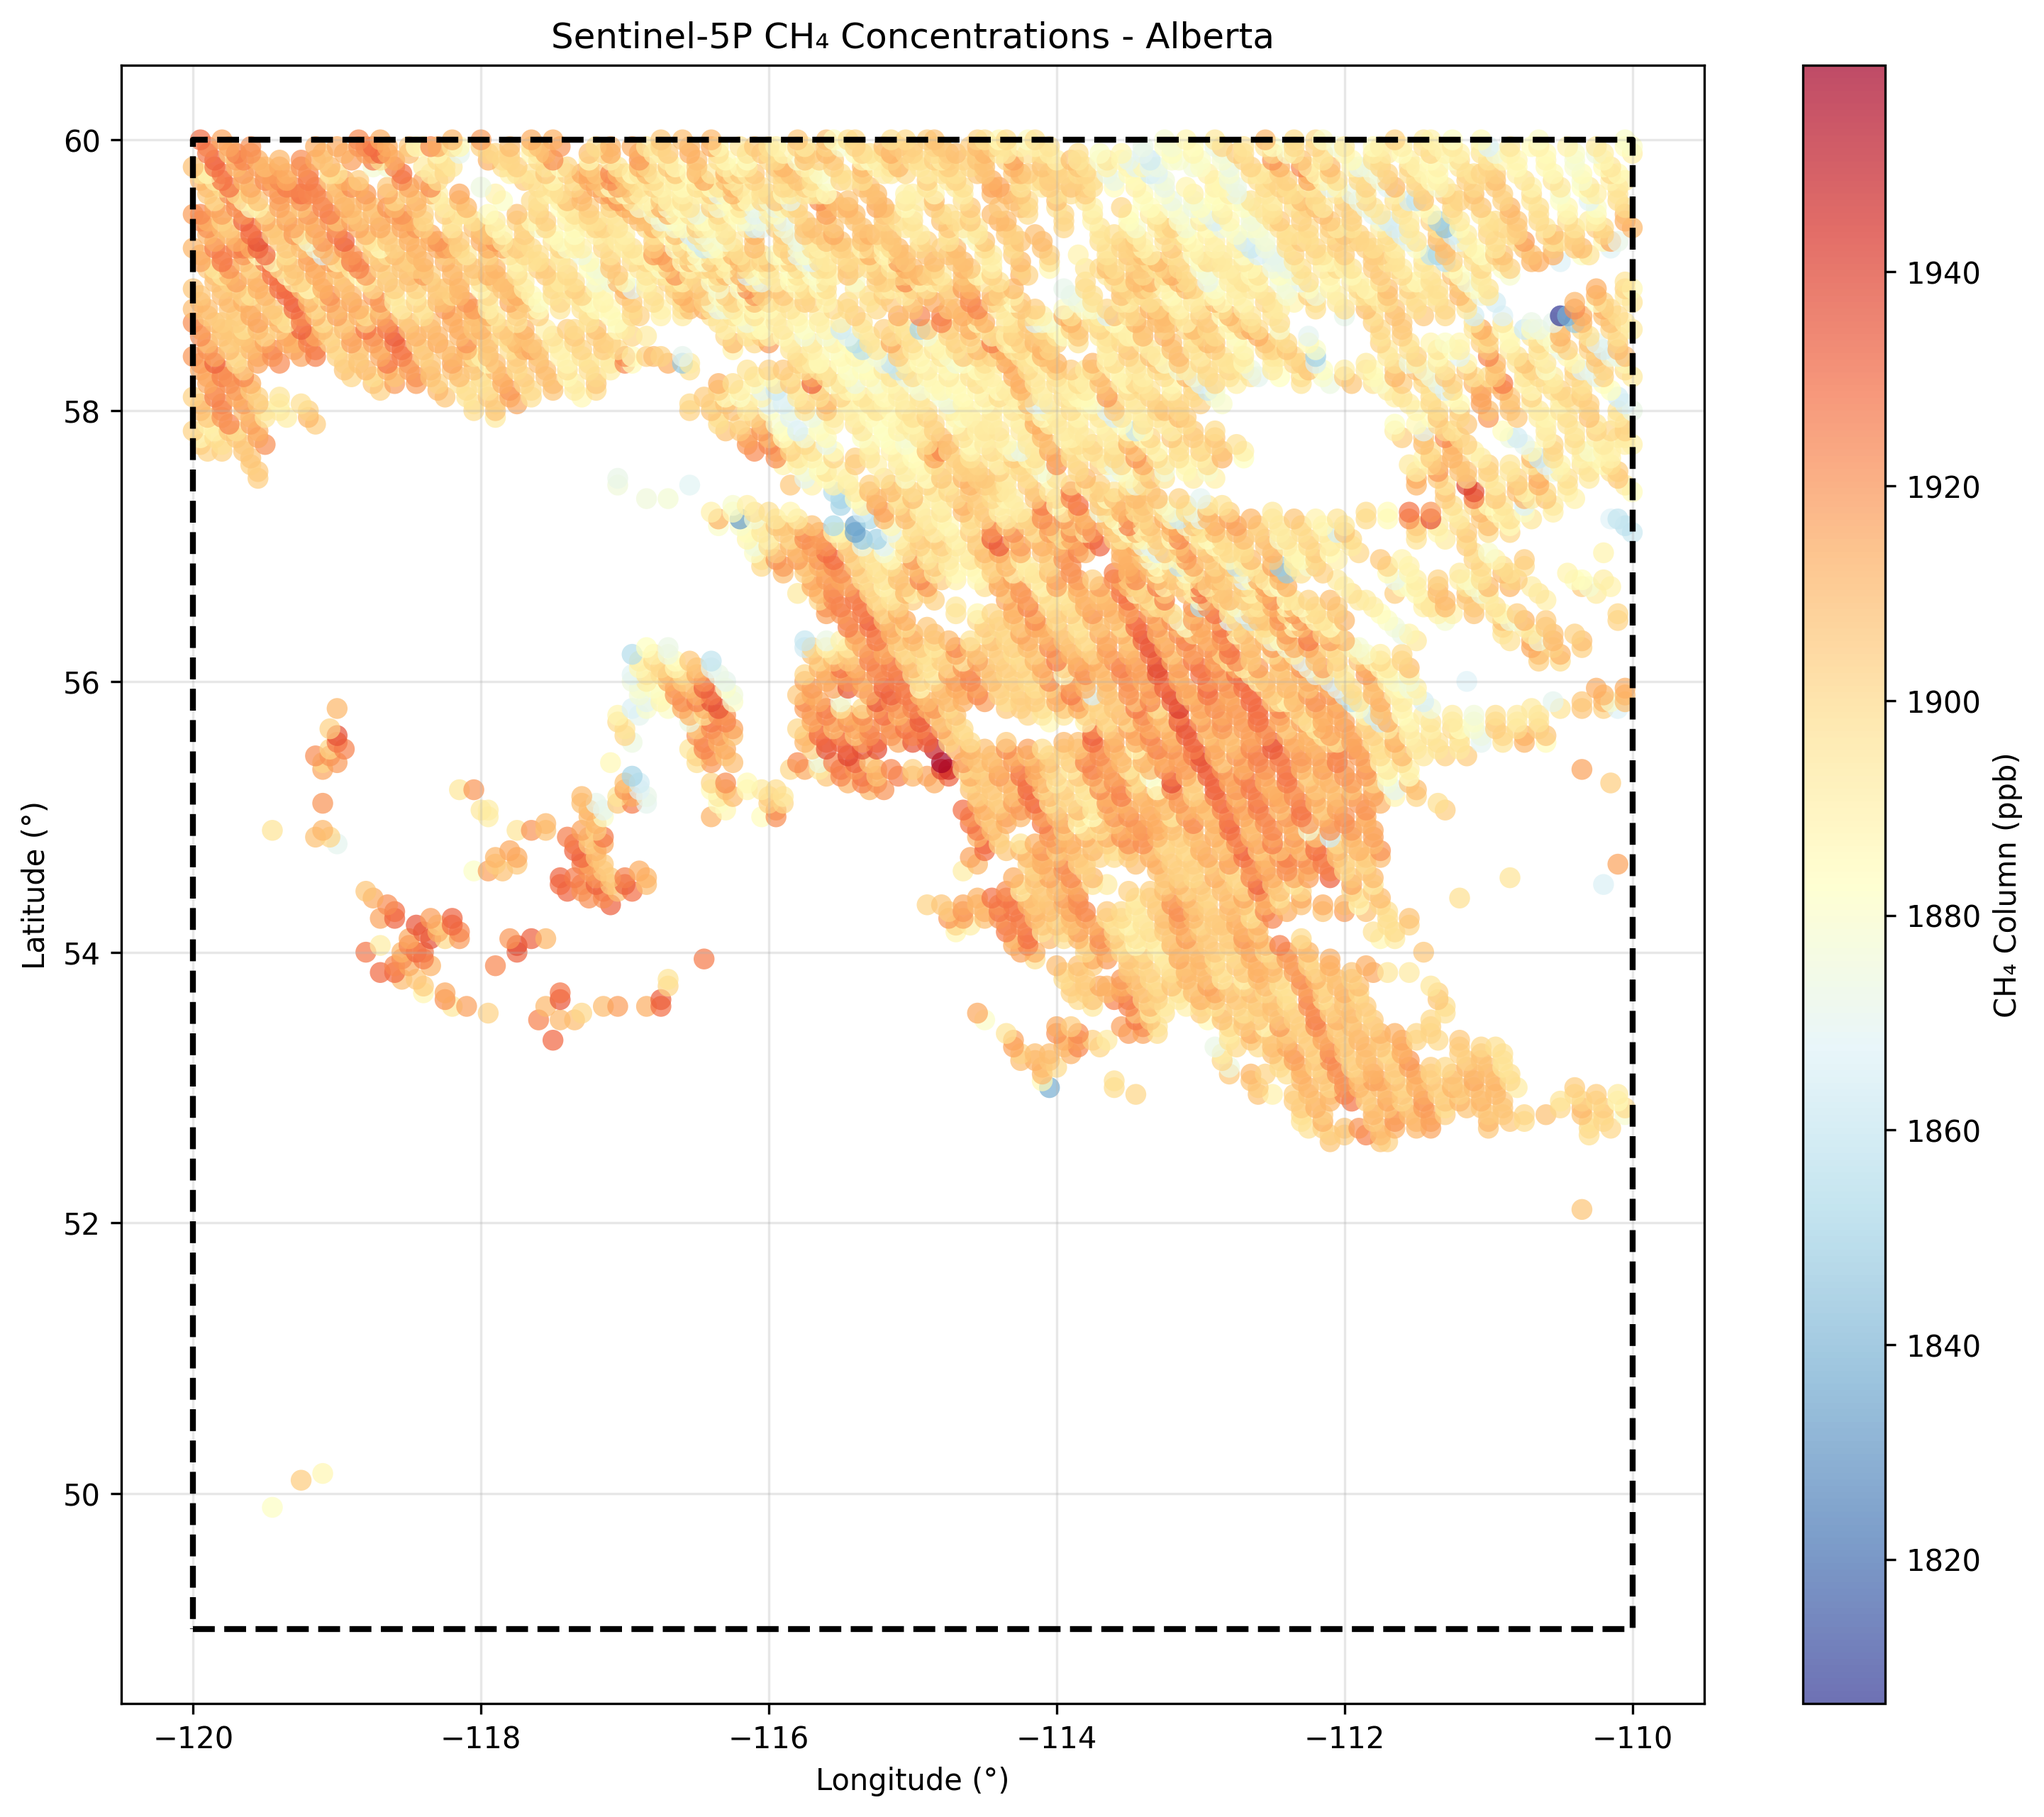
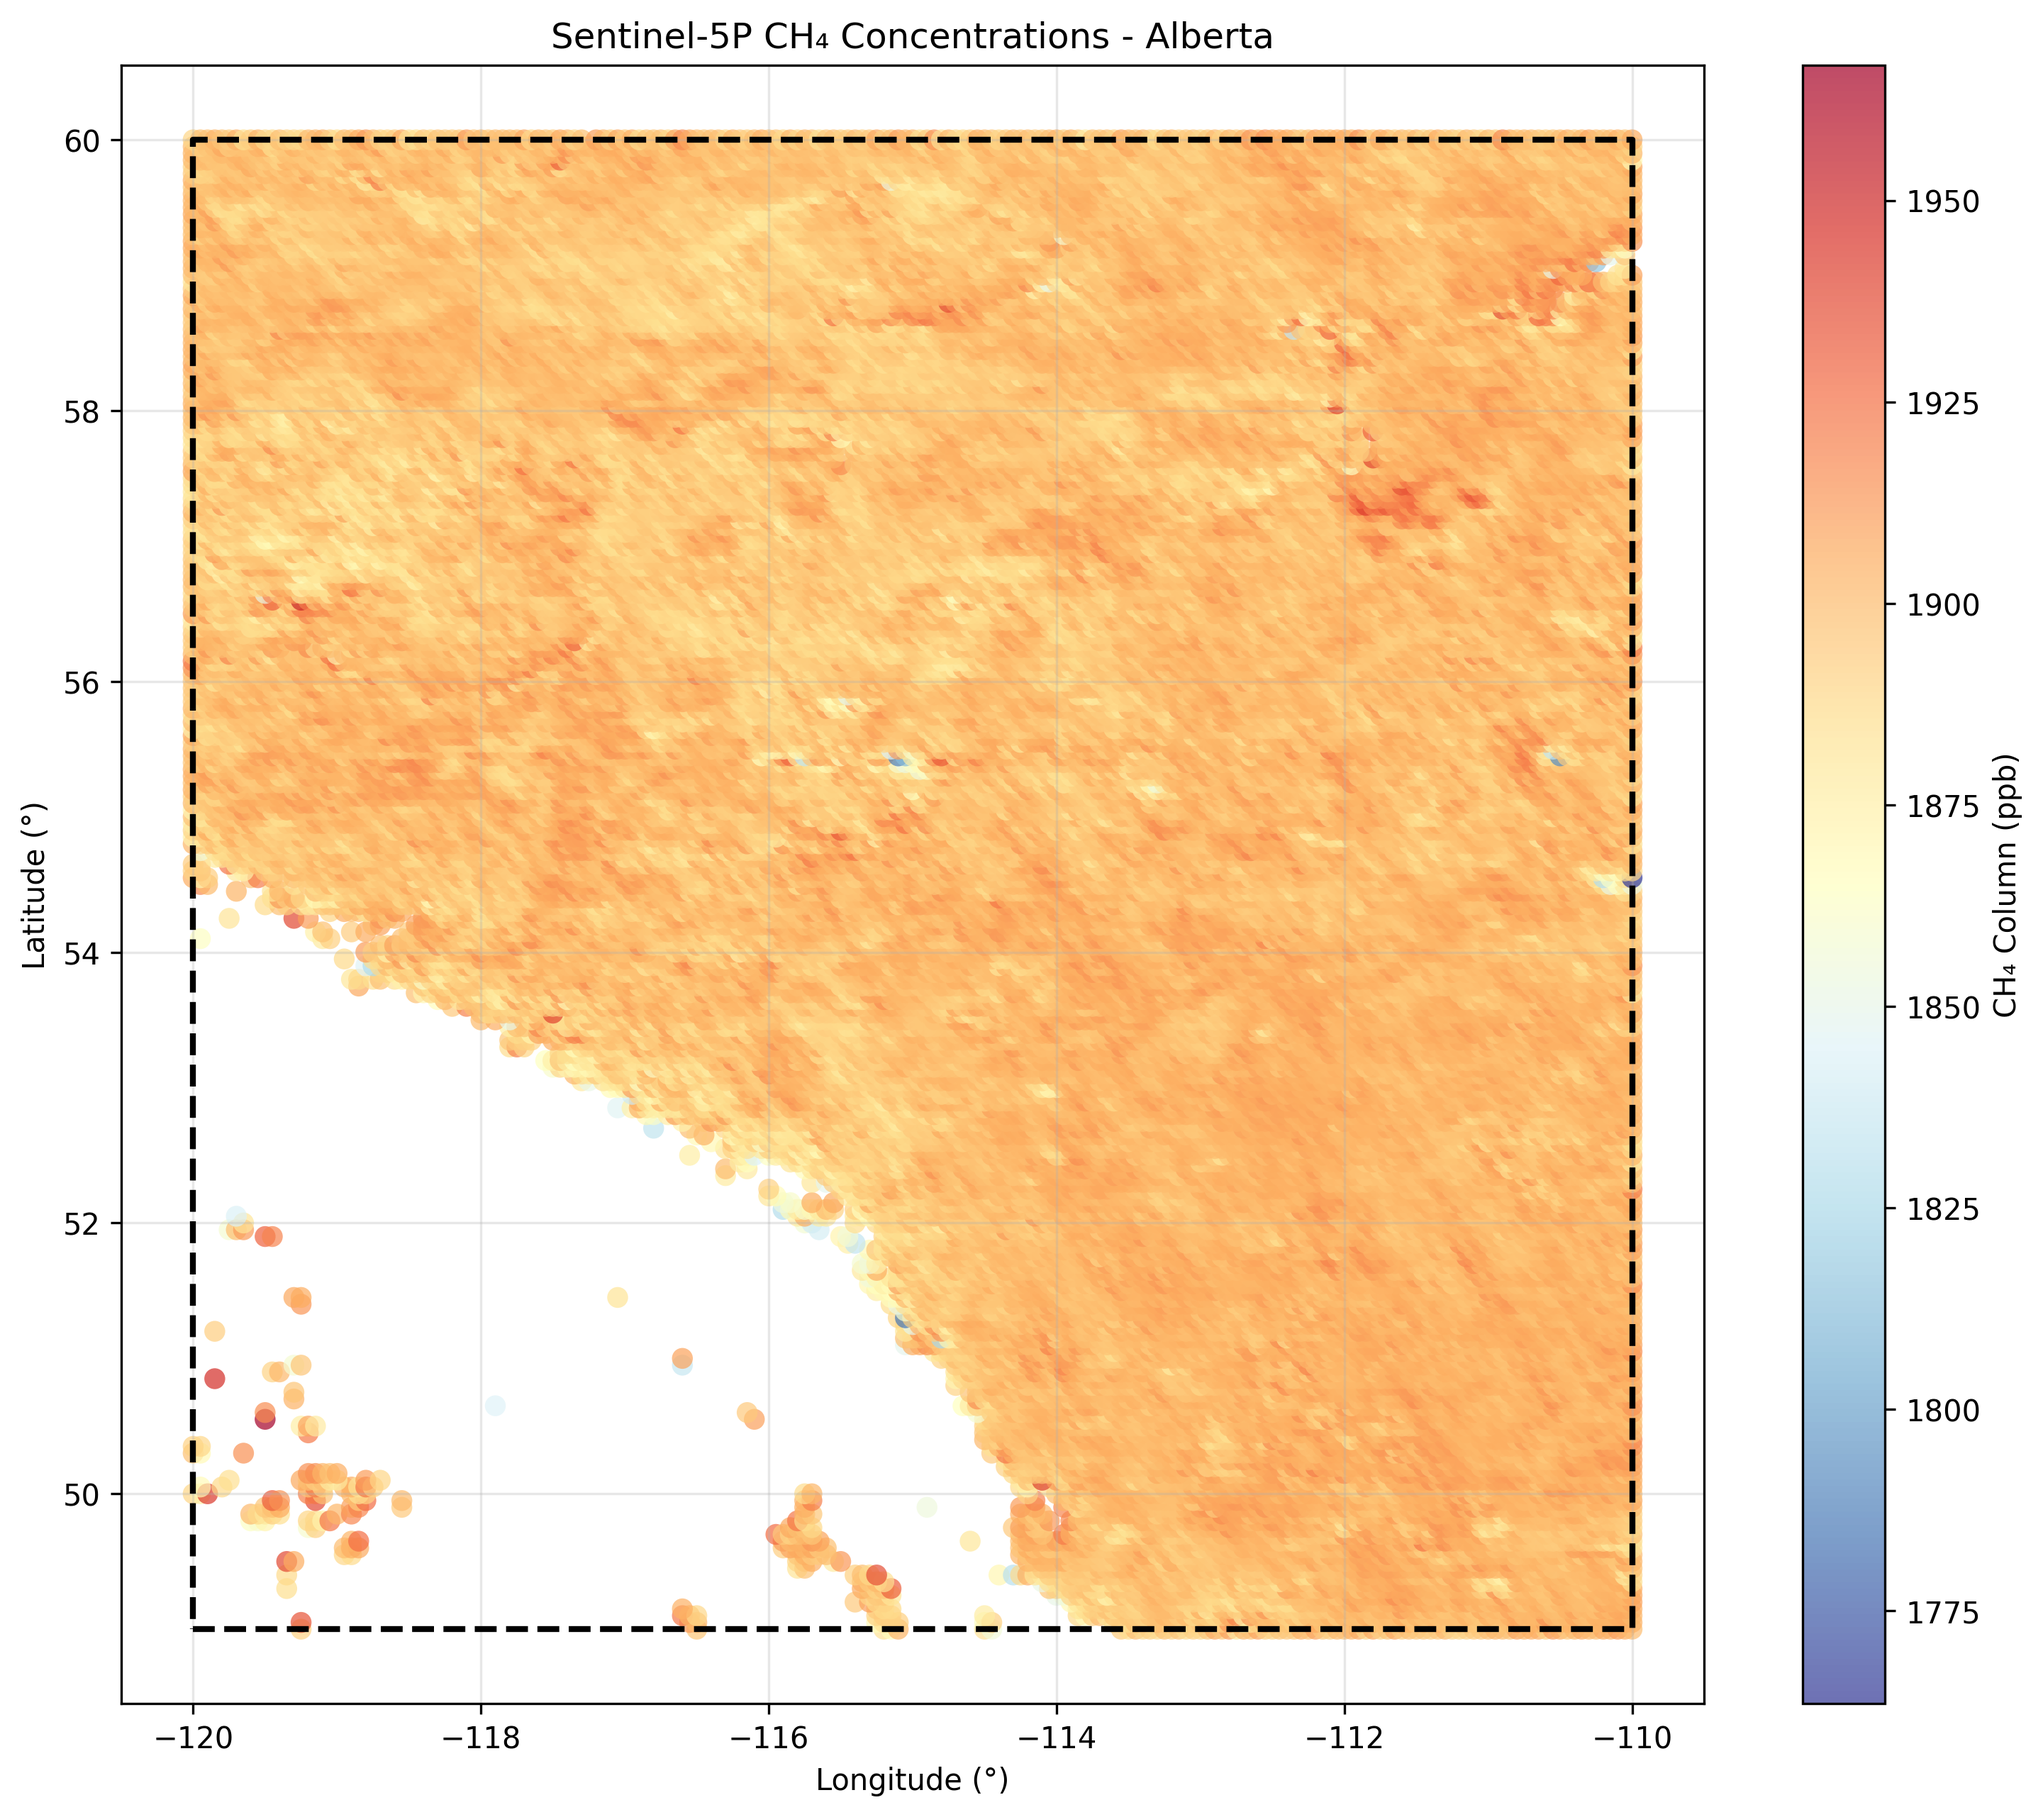
Add gold layer plots and fix monthly time series

diff --git a/scripts/visualization/visualize_ch4_data.py b/scripts/visualization/visualize_ch4_data.py
@@ -53,7 +53,7 @@ def create_ch4_heatmap(con):
 
 def create_facilities_overlay(con):
     ch4_df = con.execute("""
-        SELECT ROUND(latitude, 1) AS lat_grid, ROUND(longitude, 1) AS lon_grid,
+        SELECT ROUND(latitude, 2) AS lat_grid, ROUND(longitude, 2) AS lon_grid,
                AVG(ch4_column) AS avg_ch4
         FROM silver.sentinel5p_ch4_cleaned
         GROUP BY lat_grid, lon_grid
@@ -69,8 +69,8 @@ def create_facilities_overlay(con):
         ch4_df["lat_grid"],
         c=ch4_df["avg_ch4"],
         cmap="YlOrRd",
-        s=100,
-        alpha=0.6,
+        s=8,
+        alpha=0.5,
         edgecolors="none",
         label="CH₄",
     )
@@ -79,8 +79,9 @@ def create_facilities_overlay(con):
         facilities_df["latitude"],
         c="blue",
         marker="x",
-        s=30,
-        alpha=0.7,
+        s=15,
+        alpha=0.8,
+        linewidths=0.8,
         label="AER Facilities",
     )
     plt.colorbar(sc, ax=ax, label="Avg CH₄ (ppb)")
@@ -134,13 +135,166 @@ def create_summary_stats_plot(con):
     return save_plot(fig, "summary_statistics.png")
 
 
+def create_monthly_ch4_vs_aer(con):
+    # All months per h3_cell — no QUALIFY, keep the full time series
+    df = con.execute("""
+        SELECT reporting_month, h3_cell,
+               AVG(monthly_avg_ch4) AS avg_ch4,
+               SUM(total_emissions_1000m3) AS total_emissions
+        FROM gold.monthly_emissions_correlation
+        WHERE monthly_pixel_count IS NOT NULL
+        GROUP BY reporting_month, h3_cell
+        ORDER BY h3_cell, reporting_month
+    """).fetchdf()
+
+    # Top 5 h3_cells by number of months with data — gives the longest time series
+    top_cells = (
+        con.execute("""
+            SELECT h3_cell, COUNT(DISTINCT reporting_month) AS n_months
+            FROM gold.monthly_emissions_correlation
+            WHERE monthly_pixel_count IS NOT NULL
+              AND total_emissions_1000m3 IS NOT NULL
+            GROUP BY h3_cell
+            ORDER BY n_months DESC
+            LIMIT 5
+        """)
+        .fetchdf()["h3_cell"]
+        .tolist()
+    )
+    df_top = df[df["h3_cell"].isin(top_cells)]
+
+    fig, ax1 = plt.subplots(figsize=(14, 6))
+    ax2 = ax1.twinx()
+
+    colors = plt.rcParams["axes.prop_cycle"].by_key()["color"]
+    for i, cell in enumerate(top_cells):
+        cell_df = df_top[df_top["h3_cell"] == cell].sort_values("reporting_month")
+        if cell_df.empty:
+            continue
+        # Use last 6 digits to guarantee uniqueness between cells
+        label = f"…{str(cell)[-6:]}"
+        color = colors[i % len(colors)]
+        ax1.plot(cell_df["reporting_month"], cell_df["avg_ch4"], marker="o", ms=4,
+                 label=label, color=color)
+        ax2.plot(
+            cell_df["reporting_month"],
+            cell_df["total_emissions"],
+            linestyle="--",
+            alpha=0.5,
+            color=color,
+        )
+
+    ax1.set(xlabel="Month", ylabel="Avg CH₄ (ppb)")
+    ax2.set_ylabel("Total Emissions (1000 m³, dashed)", color="grey")
+    ax1.set_title("Monthly CH₄ vs AER Reported Emissions — Top 5 H3 Cells")
+    ax1.legend(title="H3 cell (CH₄ solid, AER dashed)", fontsize=8, loc="upper left")
+    ax1.grid(True, alpha=0.3)
+    fig.autofmt_xdate()
+    return save_plot(fig, "monthly_ch4_vs_aer.png")
+
+
+def create_emissions_scatter(con):
+    df = con.execute("""
+        SELECT total_emissions_1000m3, monthly_avg_ch4, ch4_anomaly_score
+        FROM gold.monthly_emissions_correlation
+        WHERE total_emissions_1000m3 > 0
+          AND monthly_avg_ch4 IS NOT NULL
+          AND ch4_anomaly_score IS NOT NULL
+        LIMIT 5000
+    """).fetchdf()
+
+    import numpy as np
+
+    fig, ax = plt.subplots(figsize=(10, 7))
+    sc = ax.scatter(
+        df["total_emissions_1000m3"],
+        df["monthly_avg_ch4"],
+        c=df["ch4_anomaly_score"],
+        cmap="RdYlGn_r",
+        alpha=0.6,
+        s=20,
+        edgecolors="none",
+    )
+    plt.colorbar(sc, ax=ax, label="CH₄ Anomaly Score (z-score)")
+    ax.set_xscale("log")
+    ax.set(
+        xlabel="Reported Emissions (1000 m³, log scale)",
+        ylabel="Monthly Avg CH₄ (ppb)",
+        title="Satellite CH₄ vs AER Reported Emissions",
+    )
+    ax.grid(True, alpha=0.3, which="both")
+    return save_plot(fig, "emissions_scatter.png")
+
+
+def create_anomaly_flags_chart(con):
+    df = con.execute("""
+        SELECT facility_id, operator, anomaly_type, COUNT(*) AS flag_count
+        FROM gold.facility_anomaly_flags
+        WHERE anomaly_type IS NOT NULL
+        GROUP BY facility_id, operator, anomaly_type
+        ORDER BY flag_count DESC
+        LIMIT 45
+    """).fetchdf()
+
+    if df.empty:
+        print("  No anomaly flags found — skipping chart")
+        return None
+
+    # Top 15 facilities by total flags
+    top_facilities = (
+        df.groupby("facility_id")["flag_count"]
+        .sum()
+        .nlargest(15)
+        .index.tolist()
+    )
+    df_top = df[df["facility_id"].isin(top_facilities)]
+
+    flag_types = ["HIGH_CH4_LOW_REPORTED", "LOW_CH4_HIGH_REPORTED", "HIGH_CH4_HIGH_REPORTED"]
+    colors = {"HIGH_CH4_LOW_REPORTED": "#d62728", "LOW_CH4_HIGH_REPORTED": "#1f77b4", "HIGH_CH4_HIGH_REPORTED": "#ff7f0e"}
+
+    fig, ax = plt.subplots(figsize=(12, 7))
+    bottom = {fid: 0 for fid in top_facilities}
+
+    for flag in flag_types:
+        sub = df_top[df_top["anomaly_type"] == flag].set_index("facility_id")
+        vals = [sub.loc[fid, "flag_count"] if fid in sub.index else 0 for fid in top_facilities]
+        ax.barh(top_facilities, vals, left=[bottom[f] for f in top_facilities],
+                label=flag, color=colors[flag], alpha=0.85)
+        for i, fid in enumerate(top_facilities):
+            bottom[fid] += vals[i]
+
+    ax.set(xlabel="Number of Flagged Months", title="Anomaly Flags — Top 15 Facilities")
+    ax.legend(loc="lower right", fontsize=9)
+    ax.grid(True, alpha=0.3, axis="x")
+    plt.tight_layout()
+    return save_plot(fig, "anomaly_flags.png")
+
+
 def main():
     con = duckdb.connect(DB_PATH)
+    con.execute("LOAD httpfs")
+    con.execute(f"SET s3_endpoint='{os.getenv('MINIO_ENDPOINT', 'localhost:9000')}'")
+    con.execute(f"SET s3_access_key_id='{os.getenv('MINIO_ACCESS_KEY', 'minioadmin')}'")
+    con.execute(f"SET s3_secret_access_key='{os.getenv('MINIO_SECRET_KEY', 'minioadmin')}'")
+    con.execute("SET s3_url_style='path'")
+    con.execute("SET s3_use_ssl=false")
+    con.execute("LOAD iceberg")
+    con.execute("SET unsafe_enable_version_guessing=true")
+    con.execute("LOAD spatial")
     try:
         visualizations = []
-        for func in [create_ch4_heatmap, create_facilities_overlay, create_summary_stats_plot]:
+        for func in [
+            create_ch4_heatmap,
+            create_facilities_overlay,
+            create_summary_stats_plot,
+            create_monthly_ch4_vs_aer,
+            create_emissions_scatter,
+            create_anomaly_flags_chart,
+        ]:
             try:
-                visualizations.append(func(con))
+                result = func(con)
+                if result is not None:
+                    visualizations.append(result)
             except Exception as e:
                 print(f"ERROR in {func.__name__}: {e}")
     finally:
